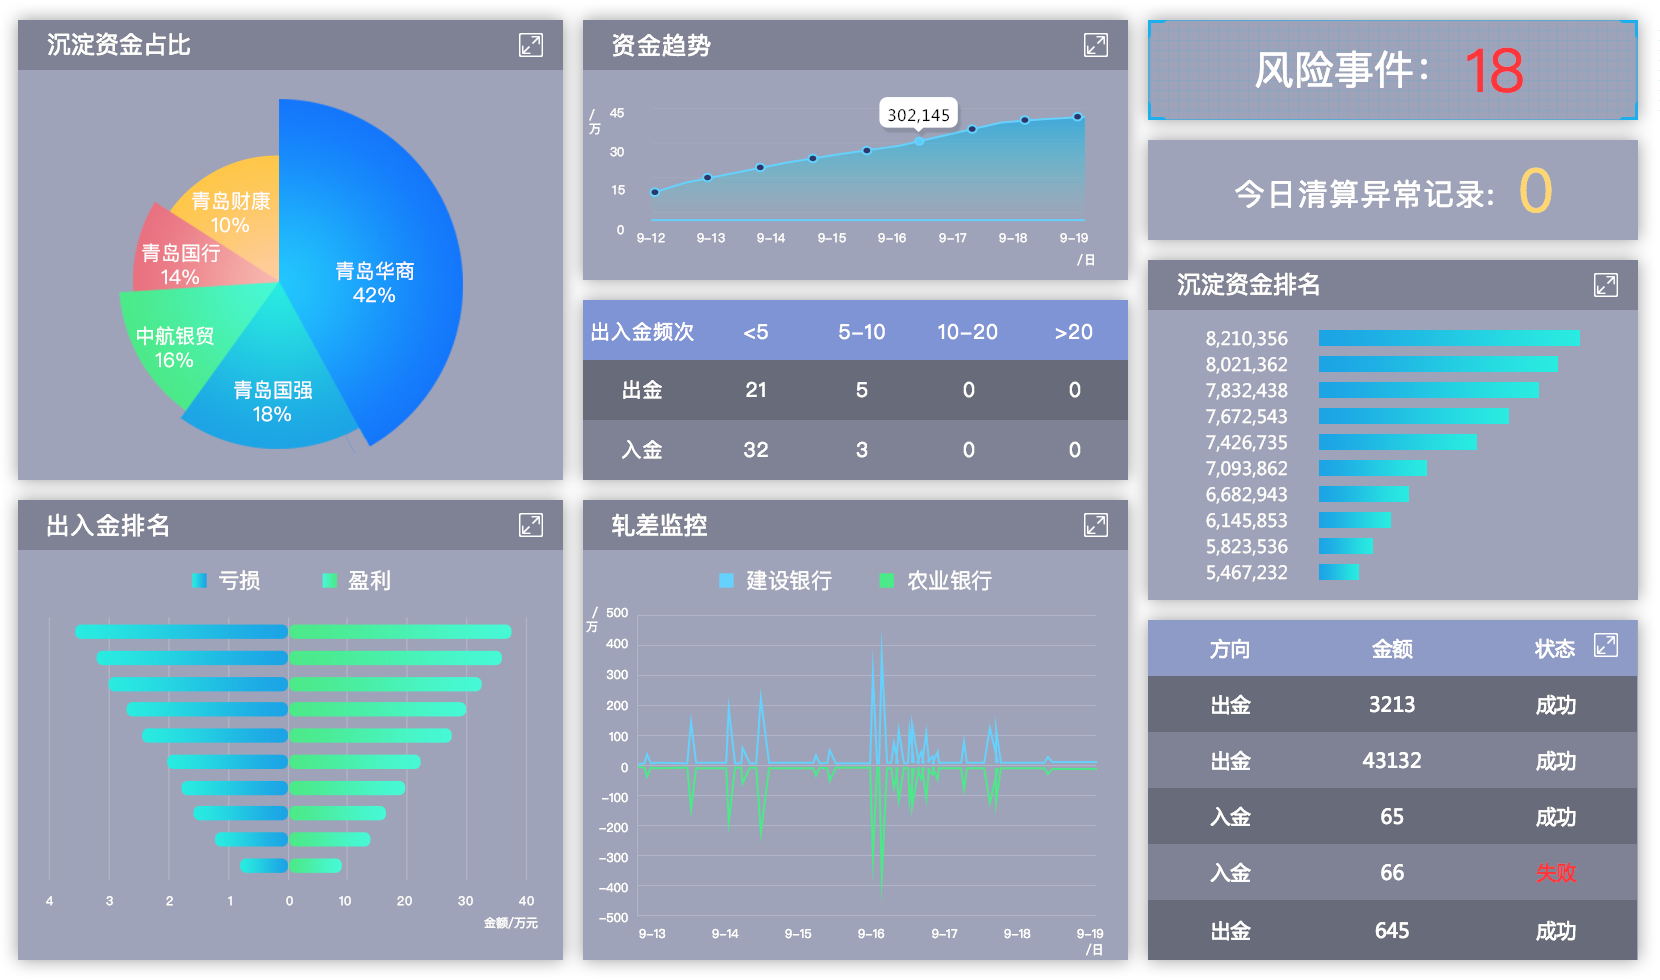
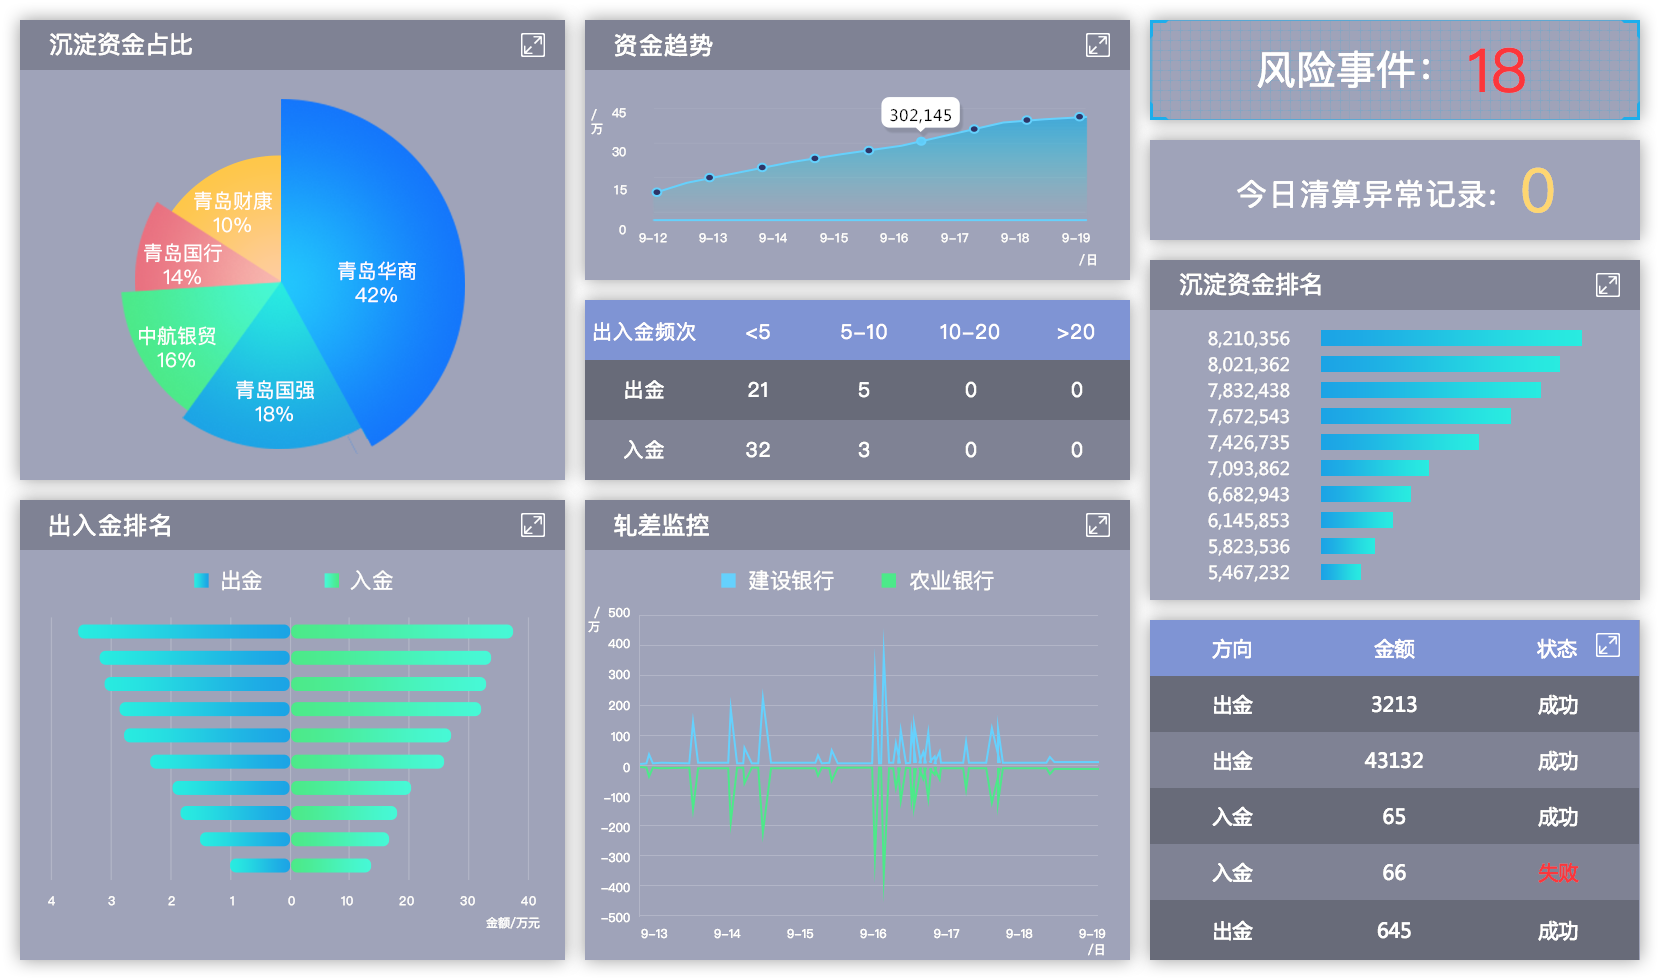
增加可疑交易 更换logo

diff --git a/qingsuan/index.html b/qingsuan/index.html
@@ -14,7 +14,7 @@
 <body>
 <div class="header">
     <div class="header-logo">
-        <img src="imgs/logo.png" alt="">
+        <img src="imgs/logo_bsgq.png" alt="">
     </div>
     <div class="header_tabs">
         <ul>
@@ -92,7 +92,7 @@
                         <img src="" alt="">
 
                     </div>
-                    <div class="jgfbt_header">机构分布图</div>
+                    <div class="jgfbt_header"><p>机构分布图</p></div>
                     <!-- Button trigger modal -->
                     <span data-toggle="modal" data-target="#myModal"></span>
                     <!-- Modal -->
@@ -115,7 +115,7 @@
                     <div class="box1_right_top">
                         <div class="bottom-right_top_left">
                             <div class="fxzlzb"></div>
-                            <div class="fxzlzb_header">风险种类占比</div>
+                            <div class="fxzlzb_header"><p>风险种类占比</p></div>
                             <!-- Button trigger modal -->
                             <span data-toggle="modal" data-target="#myModal1"></span>
                             <!-- Modal -->
@@ -138,12 +138,12 @@
                         </div>
                         <div class="bottom-right_top_right">
                            <div class="bottom-right_top_right_top">
-                               <div class="yhs_header">用户数:<b>421,243</b></div>
+                               <div class="yhs_header"><p>用户数:<b>421,243</b></p></div>
                                <span data-toggle="modal" data-target="#myModal2"></span>
                                <div class="yhs"></div>
                            </div>
                             <div class="bottom-right_top_right_bottom">
-                                <div class="cdzj_header">沉淀资金:<b>241,232,124</b></div>
+                                <div class="cdzj_header"><p>沉淀资金:<b>241,232,124</b></p></div>
                                 <span data-toggle="modal" data-target="#myModal3"></span>
                                 <div class="cdzj"></div>
                             </div>
@@ -182,7 +182,6 @@
                                     <div class="modal-body">
                                         <img src="imgs/modal_table.png" alt="">
                                     </div>
-
                                 </div>
                             </div>
                         </div>
@@ -197,7 +196,7 @@
         <div class="box3">
             <div class="box"><img src="imgs/box_khfx.png" alt=""></div>
             <div class="box"><img src="imgs/box_zjyd.png" alt=""></div>
-            <div class="box"><img src="imgs/zwkf_box.png" alt=""></div>
+            <div class="box"><img src="imgs/box_kyjy.png" alt=""></div>
             <div class="box"><img src="imgs/zwkf_box.png" alt=""></div>
             <div class="box"><img src="imgs/zwkf_box.png" alt=""></div>
             <div class="box"><img src="imgs/zwkf_box.png" alt=""></div>

diff --git a/qingsuan/css/index.css b/qingsuan/css/index.css
@@ -13,24 +13,24 @@ body {
 }
 
 .header-logo {
-    width: 21%;
+    width: 29%;
     height: 100%;
     /*background: url("../imgs/logo.png") no-repeat;*/
     /*background-size: 100% 100%;*/
     float: left;
 }
 
-.header-logo img {
-    width: 100%;
-    height: 50%;
-    margin-top: 7%;
+.header-logo>img {
+    width: 90%;
+    height: 51%;
+    margin-top: 4.5%;
     margin-left: 0.8em;
 }
 
 /*头部目录切换*/
 
 .header_tabs {
-    width: 57%;
+    width: 45%;
     height: 100%;
     float: left;
     margin-left: 3em;
@@ -52,7 +52,7 @@ body {
     width: 100%;
     height: 100%;
     color: white;
-    font-size: 0.96em;
+    font-size: 1.2em;
 }
 
 .header_tabs>ul>li {
@@ -141,7 +141,7 @@ body {
     width: 100%;
     padding: 10% 0;
     text-align: center;
-    font-size: 0.96em;
+    font-size: 1.2em;
     border-bottom: 1px solid rgb(13, 23, 80);
 
 }
@@ -150,7 +150,7 @@ body {
     height: 90%;
     text-align: left;
     margin-top: 5%;
-    font-size: 0.88em;
+    font-size: 0.96em;
 }
 
 .content .slider .menus li {
@@ -257,19 +257,21 @@ body {
 .main .box .box_header ul {
     width: 100%;
     height: 100%;
-    font-size: 0.96em;
+    font-size: 1.2em;
 }
 
 .main .box .box_header ul li {
     float: left;
-    width: 25%;
+     width: 21%;
     height: 100%;
     text-align: center;
     vertical-align: middle;
-    padding-top: 1%;
+    padding-top: 0.5%;
     color: white;
 }
-
+.main .box .box_header ul li:nth-of-type(2){
+    width: 35%;
+}
 .main .box .box_header ul li span {
     font-size: 1.67em;
     color: #ffd769;
@@ -283,7 +285,7 @@ body {
 .main .box .box_content {
     width: 100%;
     height: 88%;
-    font-size: 0.96em;
+    font-size: 1.1em;
 }
 .main img{
     width: 98%;
@@ -340,29 +342,36 @@ img[src=""]{
     left: 46%;
     top: 33%;
 }
+
 .jgfbt_header,.fxzlzb_header,.yhs_header,.cdzj_header{
     color: white;
     text-align: left;
     padding-left: 6%;
-    padding-top: 1%;
     width: 100%;
     height: 5.5%;
+    /*padding-top: 0.2%;*/
     background-color: rgba(0,0,0,0.2);
     position: absolute;
     top:0;
     left: 0;
+    vertical-align: middle;
+    margin: 0 auto;
 }
-.fxzlzb_header,.yhs_header,.cdzj_header{
-    height: 11%;
+.fxzlzb_header,.yhs_header,.cdzj_header,.cdzj_header{
+    height: 1.8em;
+    vertical-align: middle;
+
+}
+.fxzlzb_header p,.yhs_header p,.cdzj_header p,.cdzj_header p{
+    height: 1em;
+    width: 100%;
+    margin-top: 0.2em;
+    display: inline-block;
 }
 .yhs_header b ,.cdzj_header b{
     position: static;
     color: #ffd769;
     margin-left: 3%;
-}
-.cdzj_header{
-    height: 22%;
-    padding-top: 1.2%;
 }
 .main .box1 .box_content span {
     position: absolute;

diff --git a/qingsuan/css/common.css b/qingsuan/css/common.css
@@ -122,19 +122,20 @@ h3 {
 @media screen and (max-width: 960px) {
     body {
         font-size: 12px;
+
     }
 }
 
 @media screen and (min-width: 960px) and (max-width: 1366px) {
     body {
-        font-size: 14px;
+        font-size: 13px;
     }
 
 }
 
 @media screen and (min-width: 1366px) and (max-width: 1440px) {
     body {
-        font-size: 16px;
+        font-size: 14px;
     }
 }
 
@@ -150,6 +151,6 @@ h3 {
 }
 @media screen and (min-width: 2560px) and (max-width: 3840px) {
     body {
-        font-size: 50px;
+        font-size: 55px;
     }
 }
